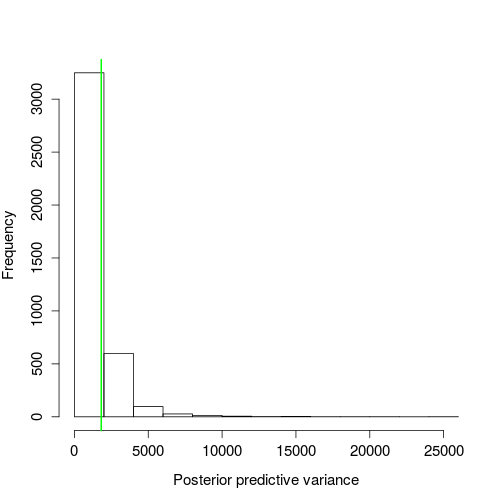
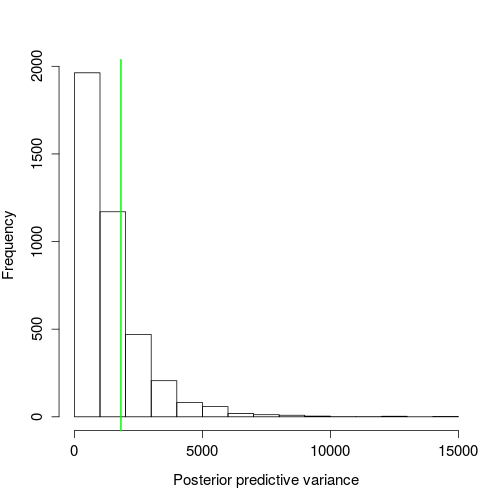
small to short

diff --git a/_site/Prius/index.html b/_site/Prius/index.html
@@ -134,7 +134,7 @@ Figure 1. Sampled distribution of wait times.</p>
 </span></code></pre>
 </div>
 
-<p>Stan parameterizes the exponential distribution using the rate, so a prior distribution that is concentrated near zero informs the model that wait times are long. This post was motivated by a belief that wait time between Prius spottings is small, so I’ll use a scale parameter that communicates this. Let’s keep things pushed toward zero (decay shape) with shape equal to one, and a large scale parameter to make for a long tail. I’m spit-balling here, but it seems like seeing a Prius every minute would be reasonable, so we’ll make both shape and scale equal to one. Choices about the prior should be made before looking at the data, but we can see how sensitive our inferences are to changing the prior (I don’t report the results in the blog, but the model doesn’t seem very sensitive to the prior, even with only 17 observations).</p>
+<p>Stan parameterizes the exponential distribution using the rate, so a prior distribution that is concentrated near zero informs the model that wait times are long. This post was motivated by a belief that wait time between Prius spottings is short, so I’ll use a scale parameter that communicates this. Let’s keep things pushed toward zero (decay shape) with shape equal to one, and a large scale parameter to make for a long tail. I’m spit-balling here, but it seems like seeing a Prius every minute would be reasonable, so we’ll make both shape and scale equal to one. Choices about the prior should be made before looking at the data, but we can see how sensitive our inferences are to changing the prior (I don’t report the results in the blog, but the model doesn’t seem very sensitive to the prior, even with only 17 observations).</p>
 
 <p>Here’s what this prior looks like.</p>
 
@@ -172,10 +172,10 @@ Figure 2. Gamma prior for exponential rate parameter.</p>
 ## post-warmup draws per chain=1000, total post-warmup draws=4000.
 ## 
 ##        mean se_mean   sd   2.5%    25%    50%    75%  97.5% n_eff Rhat
-## beta   0.03    0.00 0.01   0.02   0.02   0.03   0.03   0.04  1685    1
-## lp__ -82.15    0.02 0.73 -84.07 -82.30 -81.87 -81.70 -81.65  1495    1
+## beta   0.03    0.00 0.01   0.02   0.02   0.03   0.03   0.04  1640    1
+## lp__ -82.17    0.02 0.73 -84.19 -82.35 -81.88 -81.70 -81.65  1735    1
 ## 
-## Samples were drawn using NUTS(diag_e) at Fri Sep  1 15:28:30 2017.
+## Samples were drawn using NUTS(diag_e) at Fri Sep  1 15:51:52 2017.
 ## For each parameter, n_eff is a crude measure of effective sample size,
 ## and Rhat is the potential scale reduction factor on split chains (at 
 ## convergence, Rhat=1).
@@ -217,11 +217,11 @@ Figure 4. Inferred posterior distribution for exponential rate parameter.</p>
 </div>
 
 <div class="highlighter-rouge"><pre class="highlight"><code>##     2.5%    97.5% 
-## 22.71007 56.96707
+## 23.13407 59.25229
 </code></pre>
 </div>
 
-<p>So there’s a 95% chance the expected wait time between Prius spottings is between 23 and 57 seconds.</p>
+<p>So there’s a 95% chance the expected wait time between Prius spottings is between 23 and 59 seconds.</p>
 
 <p>We can also easily see the probability that the expected wait time is less than, say, one minute.</p>
 
@@ -229,7 +229,7 @@ Figure 4. Inferred posterior distribution for exponential rate parameter.</p>
 </span></code></pre>
 </div>
 
-<div class="highlighter-rouge"><pre class="highlight"><code>## [1] 0.98275
+<div class="highlighter-rouge"><pre class="highlight"><code>## [1] 0.97675
 </code></pre>
 </div>
 
@@ -250,12 +250,12 @@ Figure 4. Inferred posterior distribution for exponential rate parameter.</p>
 </span></code></pre>
 </div>
 
-<div class="highlighter-rouge"><pre class="highlight"><code>## [1] 0.22025
+<div class="highlighter-rouge"><pre class="highlight"><code>## [1] 0.24925
 </code></pre>
 </div>
 <p>Figure 5. Distribution of variances from posterior predictive distributions, green line is the sample variance.</p>
 
-<p>There’s a ~22% probability of simulated data having variation greater than the observed. This isn’t too far off. The nearer to 50%, the more consistent the simulated data and observed. The exponential distribution model as-is seems fairly adequate.</p>
+<p>There’s a ~25% probability of simulated data having variation greater than the observed. This isn’t too far off. The nearer to 50%, the more consistent the simulated data and observed. The exponential distribution model as-is seems fairly adequate.</p>
 
 <p>We can also get some idea of the max wait time conditional of the data.</p>
 
@@ -275,7 +275,7 @@ Figure 4. Inferred posterior distribution for exponential rate parameter.</p>
 </div>
 
 <div class="highlighter-rouge"><pre class="highlight"><code>##      2.5%     97.5% 
-## 0.8491952 4.3820713
+## 0.8249686 4.5523389
 </code></pre>
 </div>
 
@@ -350,7 +350,7 @@ Figure 8. Distribution of bootstrap replicates for mean exponential wait times. 
 </div>
 
 <div class="highlighter-rouge"><pre class="highlight"><code>##     2.5%    97.5% 
-## 18.29412 56.82353
+## 18.29412 57.65000
 </code></pre>
 </div>
 

diff --git a/_posts/2017-08-30-Prius.md b/_posts/2017-08-30-Prius.md
@@ -91,7 +91,7 @@ stan_exp <- stan_model(model_code=stan_string)
 ```
 
 
-Stan parameterizes the exponential distribution using the rate, so a prior distribution that is concentrated near zero informs the model that wait times are long. This post was motivated by a belief that wait time between Prius spottings is small, so I'll use a scale parameter that communicates this. Let's keep things pushed toward zero (decay shape) with shape equal to one, and a large scale parameter to make for a long tail. I'm spit-balling here, but it seems like seeing a Prius every minute would be reasonable, so we'll make both shape and scale equal to one. Choices about the prior should be made before looking at the data, but we can see how sensitive our inferences are to changing the prior (I don't report the results in the blog, but the model doesn't seem very sensitive to the prior, even with only 17 observations).
+Stan parameterizes the exponential distribution using the rate, so a prior distribution that is concentrated near zero informs the model that wait times are long. This post was motivated by a belief that wait time between Prius spottings is short, so I'll use a scale parameter that communicates this. Let's keep things pushed toward zero (decay shape) with shape equal to one, and a large scale parameter to make for a long tail. I'm spit-balling here, but it seems like seeing a Prius every minute would be reasonable, so we'll make both shape and scale equal to one. Choices about the prior should be made before looking at the data, but we can see how sensitive our inferences are to changing the prior (I don't report the results in the blog, but the model doesn't seem very sensitive to the prior, even with only 17 observations).
 
 Here's what this prior looks like.
 
@@ -132,10 +132,10 @@ print(stan_fit)
 ## post-warmup draws per chain=1000, total post-warmup draws=4000.
 ## 
 ##        mean se_mean   sd   2.5%    25%    50%    75%  97.5% n_eff Rhat
-## beta   0.03    0.00 0.01   0.02   0.02   0.03   0.03   0.04  1685    1
-## lp__ -82.15    0.02 0.73 -84.07 -82.30 -81.87 -81.70 -81.65  1495    1
+## beta   0.03    0.00 0.01   0.02   0.02   0.03   0.03   0.04  1640    1
+## lp__ -82.17    0.02 0.73 -84.19 -82.35 -81.88 -81.70 -81.65  1735    1
 ## 
-## Samples were drawn using NUTS(diag_e) at Fri Sep  1 15:28:30 2017.
+## Samples were drawn using NUTS(diag_e) at Fri Sep  1 15:51:52 2017.
 ## For each parameter, n_eff is a crude measure of effective sample size,
 ## and Rhat is the potential scale reduction factor on split chains (at 
 ## convergence, Rhat=1).
@@ -181,10 +181,10 @@ cred1
 
 ```
 ##     2.5%    97.5% 
-## 22.71007 56.96707
+## 23.13407 59.25229
 ```
 
-So there's a 95% chance the expected wait time between Prius spottings is between 23 and 57 seconds.
+So there's a 95% chance the expected wait time between Prius spottings is between 23 and 59 seconds.
 
 We can also easily see the probability that the expected wait time is less than, say, one minute. 
 
@@ -194,7 +194,7 @@ mean(1/exp_post$beta < 60)
 ```
 
 ```
-## [1] 0.98275
+## [1] 0.97675
 ```
 
 Also valuable in a Bayesian framework is the ability to conduct posterior predictive checks. We can use posterior draws of the rate parameter, and generate simulated data from this exponential distribution. Perhaps the wait times have more variation than the exponential distribution allows for. We simply need to compare the observed variation to that of the simulated data sets:
@@ -216,11 +216,11 @@ mean(pred_var > var(wt_times$wait))
 ```
 
 ```
-## [1] 0.22025
+## [1] 0.24925
 ```
 Figure 5. Distribution of variances from posterior predictive distributions, green line is the sample variance.
 
-There's a ~22% probability of simulated data having variation greater than the observed. This isn't too far off. The nearer to 50%, the more consistent the simulated data and observed. The exponential distribution model as-is seems fairly adequate.
+There's a ~25% probability of simulated data having variation greater than the observed. This isn't too far off. The nearer to 50%, the more consistent the simulated data and observed. The exponential distribution model as-is seems fairly adequate.
 
 
 We can also get some idea of the max wait time conditional of the data.
@@ -243,7 +243,7 @@ quantile(pred_max/60, c(0.025, 0.975))
 
 ```
 ##      2.5%     97.5% 
-## 0.8491952 4.3820713
+## 0.8249686 4.5523389
 ```
 
 Figure 6. Distribution of maximum wait times from posterior predictive distributions, green line is the sample maximum wait time.
@@ -325,7 +325,7 @@ quantile(boots, c(0.025, 0.975))
 
 ```
 ##     2.5%    97.5% 
-## 18.29412 56.82353
+## 18.29412 57.65000
 ```
 
 ```r
